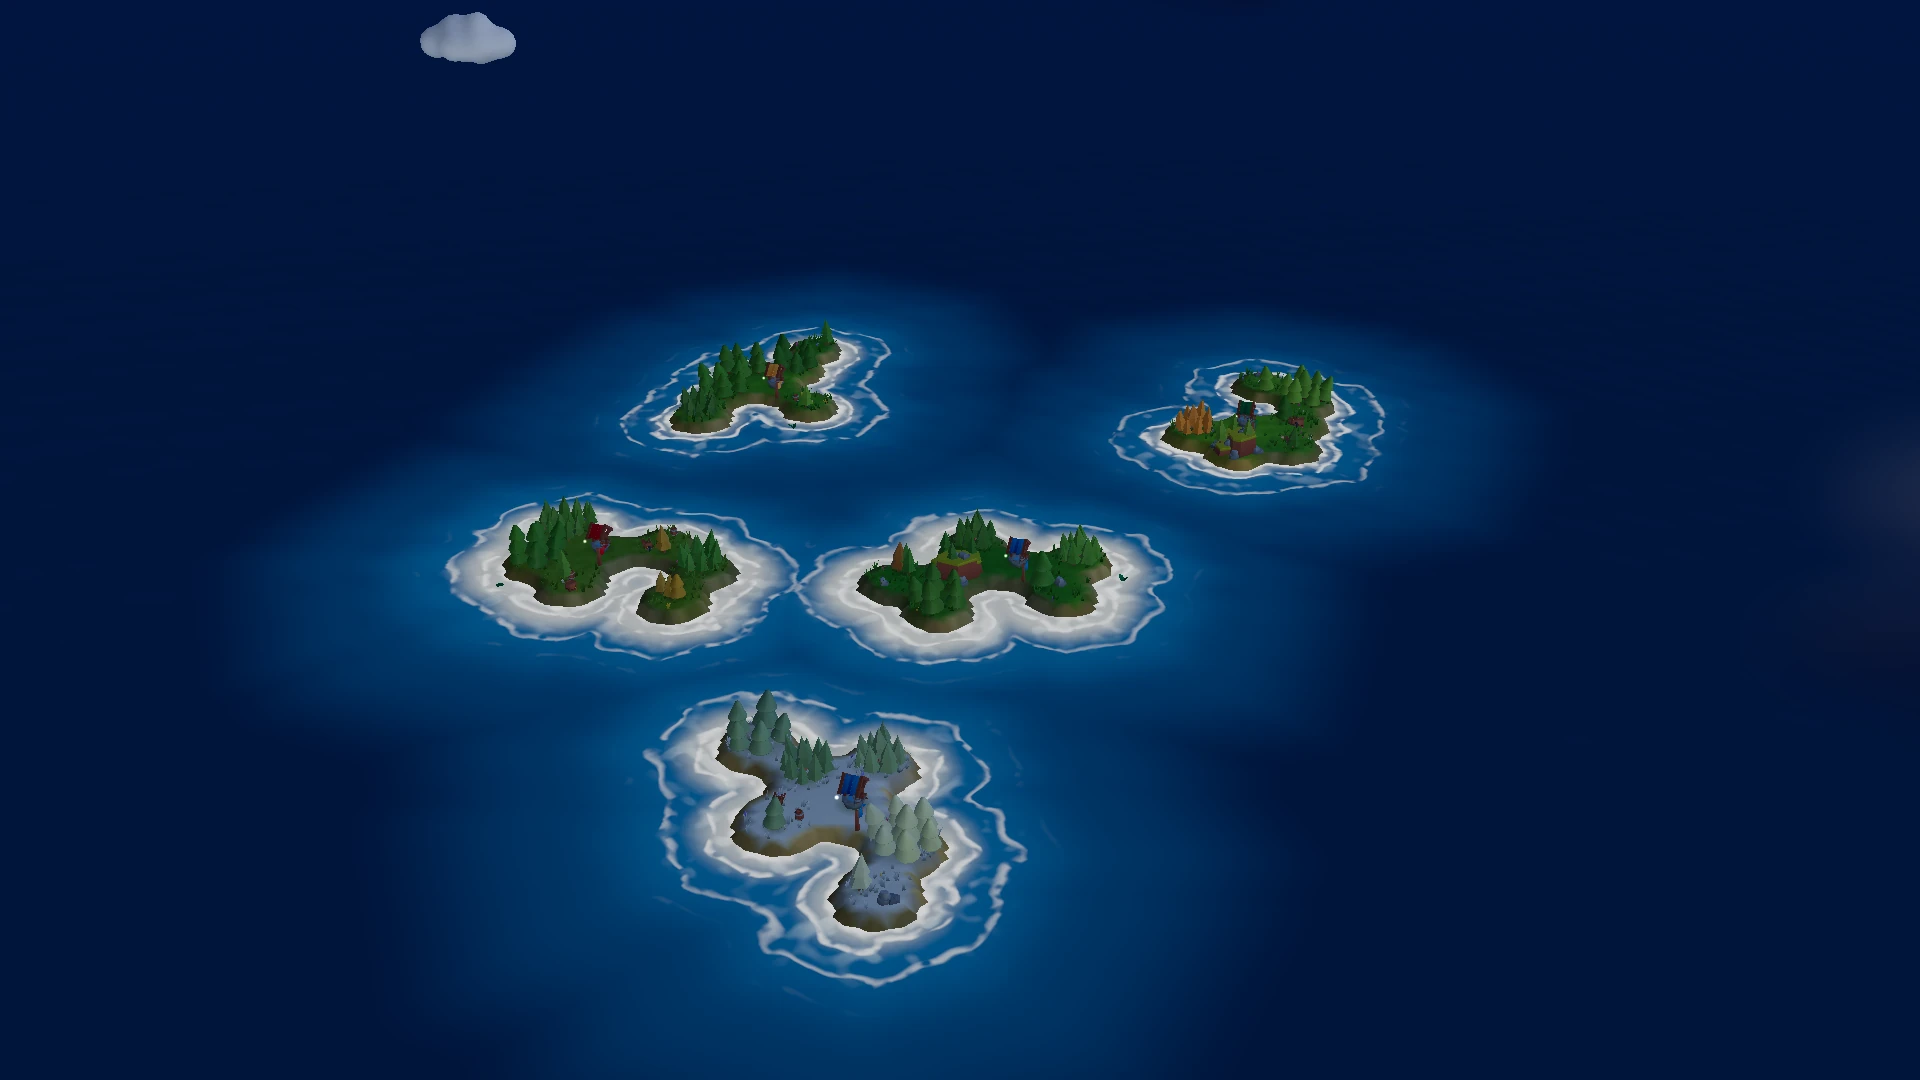
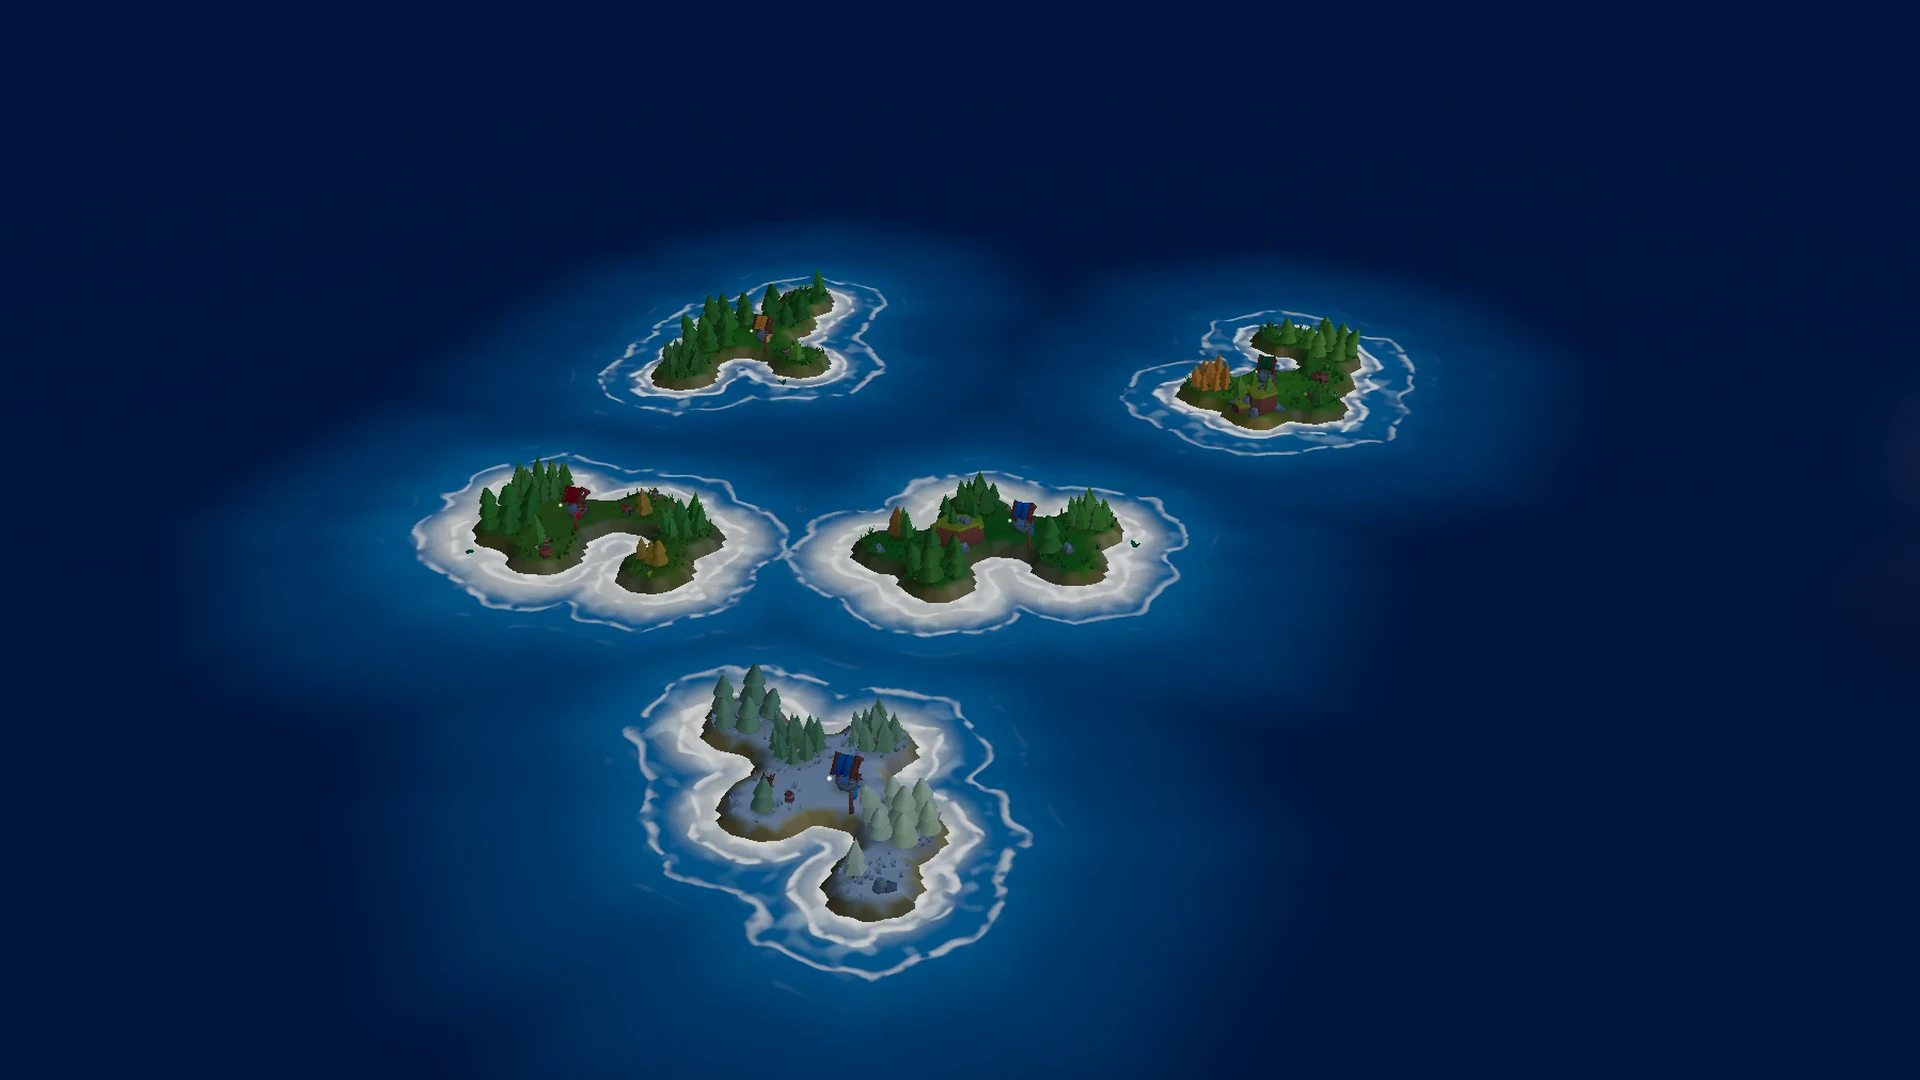
Harbour: a wood accent seen on the panels too, and a wallpaper without a cloud in its corner
Screenshots of Harbour in the real app found two things here.

The wood accent read 3.16:1 on the page but 2.92:1 on the panels and menus,
where a switch that is on and a slider's thumb are drawn; the app now holds
an accent to 3:1 on both (its theme-format.ts, branch fix/theme-polish).
Brand goes from oklch(0.52 0.075 45) to oklch(0.53 0.075 45): 3.30:1 on bg,
3.05:1 on bg2. The main button's words, the theme's fg, stay above 4.5:1 on
it (4.55:1, was 4.75:1; fg/bg2 is 13.9:1, so 3:1 on bg2 leaves at most
4.63:1), white 5.42:1. It stays apart from warn's amber by eye and under
deuteranopia and protanopia (31 apart, as before 32).

The wallpaper had a grey cloud in its top-left corner (rows 8 to 63), which
the app showed between the Layers panel and the toolbar. The still is now
that render cropped below it and scaled back to 1920 x 1080 (7% larger),
78 KB; ASSETS.md says how, and to look at the corners next time.

tests/harbour-theme.test.ts also asks for brand at 3:1 on bg2 and for fg on
brand at 4.5:1 (the main button's words); the old wood fails the first (and
the app's reader refuses it: "accent.brand on bg2 is 2.92:1"), a wood at
L 0.545 fails the second (4.29:1).

Claude-Session: https://claude.ai/code/session_01BLfTFn7RkTLtbpWjFPCzxo

Changed region(s): [[0.125, 0.2139, 0.8125, 0.9167], [0.2188, 0.0, 0.2812, 0.0611]]

diff --git a/tests/harbour-theme.test.ts b/tests/harbour-theme.test.ts
@@ -83,7 +83,7 @@ describe("Harbour", () => {
     }
   });
 
-  test("its wood accent reads apart from warn, by eye and under deuteranopia and protanopia, and reads as words on bg and bg2; its brand takes white words", () => {
+  test("its wood accent reads apart from warn, by eye and under deuteranopia and protanopia, and reads as words on bg and bg2; its brand is a mark on bg and bg2 and takes the theme's words and white ones", () => {
     const { brand, accent, working } = theme.accent as Record<string, string>;
     for (const c of [brand, accent]) {
       const near = Math.min(deltaE(rgbOf(c), rgbOf(P.warn)), ...(["deuteranopia", "protanopia"] as const).map((k) => deltaE(simulate(rgbOf(c), k), simulate(rgbOf(P.warn), k))));
@@ -94,7 +94,12 @@ describe("Harbour", () => {
     }
     expect(ratio(accent, P.bg)).toBeGreaterThanOrEqual(4.5);
     expect(ratio(accent, P.bg2)).toBeGreaterThanOrEqual(4.5);
+    // A switch that is on, a slider's thumb and the selected tile's handle: on the page and on the
+    // panels and menus, as the app checks (theme-format.ts ACCENT_SURFACES).
     expect(ratio(brand, P.bg)).toBeGreaterThanOrEqual(3);
+    expect(ratio(brand, P.bg2)).toBeGreaterThanOrEqual(3);
+    // The main button's words are the theme's fg (the app takes fg or bg, whichever reads better).
+    expect(ratio(P.fg, brand)).toBeGreaterThanOrEqual(4.5);
     expect(ratio(WHITE, brand)).toBeGreaterThanOrEqual(4.5);
     // A working agent is not the brand: a pale sea colour, a mark on the panels.
     expect(ratio(working, P.bg2)).toBeGreaterThanOrEqual(3);

diff --git a/packages/archipelago/themes/harbour/ASSETS.md b/packages/archipelago/themes/harbour/ASSETS.md
@@ -7,7 +7,7 @@ that lets it be shipped, changed and passed on.
 | File | What | Where it comes from | Licence |
 |---|---|---|---|
 | `fonts/nunito-latin.woff2` | Nunito, the interface font: one variable file, weights 400 to 800, the Latin subset (Basic Latin, Latin-1, the common punctuation and symbols), 39 KB | Nunito, Copyright 2014 The Nunito Project Authors: https://github.com/googlefonts/nunito; this file is the Latin subset Google Fonts serves for `Nunito:wght@400..800` (https://fonts.gstatic.com/s/nunito/v32/XRXV3I6Li01BKofINeaB.woff2), unchanged | SIL Open Font License 1.1, in full in `fonts/OFL.txt` |
-| `wallpaper.webp` | The islands by night, 1920 × 1080, 77 KB | Rendered from Archipelago's own view (`views/archipelago/dist`) in headless Chromium: five islands, no agents, the night sky, camera at distance 60, yaw 0.75, pitch 0.5. Its models and skies are the CC0 packs listed in `views/archipelago/ASSETS.md` | CC0 1.0, as the packs it is drawn from; the render is ours, given under the same terms |
+| `wallpaper.webp` | The islands by night, 1920 × 1080, 78 KB | Rendered from Archipelago's own view (`views/archipelago/dist`) in headless Chromium: five islands, no agents, the night sky, camera at distance 60, yaw 0.75, pitch 0.5; then cropped to leave out a cloud the render left in its top-left corner, where the app showed it between the Layers panel and the toolbar. Its models and skies are the CC0 packs listed in `views/archipelago/ASSETS.md` | CC0 1.0, as the packs it is drawn from; the render is ours, given under the same terms |
 | `sounds/done.ogg` | A ship's bell struck twice, 2.6 s | Synthesised by `../../scripts/make-harbour-sounds.mjs` | Ours, CC0 1.0 |
 | `sounds/needs.ogg` | Two gull-like calls, each rising, the second higher, 1.0 s | Synthesised by `../../scripts/make-harbour-sounds.mjs` | Ours, CC0 1.0 |
 | `sounds/error.ogg` | A low harbour horn, two pipes a fifth apart, 1.8 s | Synthesised by `../../scripts/make-harbour-sounds.mjs` | Ours, CC0 1.0 |
@@ -35,3 +35,10 @@ how: the app's `serveViewFile`, the SDK's fake host), send it a structure of a f
 agents with `settings: { sky: "night", motion: "less" }` and a saved camera, screenshot it at
 1920 × 1080 and encode it with `ffmpeg -i still.png -c:v libwebp -quality 90 -compression_level 6
 wallpaper.webp`.
+
+Look at its corners before you commit it. The app draws the Layers panel, the toolbar and the canvas
+controls over them, so a cloud or a light there reads as a smudge between them. The first render had
+a cloud in the top-left corner (rows 8 to 63). The committed still is that render cropped below it and
+scaled back to 1920 × 1080, 7% larger:
+`ffmpeg -i wallpaper.webp -vf "crop=1799:1012:60:68,scale=1920:1080:flags=lanczos" -c:v libwebp
+-quality 90 -compression_level 6 cropped.webp`.

diff --git a/packages/archipelago/README.md b/packages/archipelago/README.md
@@ -41,7 +41,7 @@ with the Harbour widget, the dock of agents calling you; the theme is the look, 
 | Part | What it is |
 | --- | --- |
 | Colours | Dark: panels of night sea, words in sea-foam white (15:1 on the ground), and one warm colour, the amber of "needs you", kept for what waits on you alone. |
-| Accent | Wood: a brown well below the amber in lightness, so the two stay apart, also to colour-blind eyes. It is never a status. |
+| Accent | Wood: a brown well below the amber in lightness, so the two stay apart, also to colour-blind eyes, and at 3:1 on the ground and on the panels, so a switch or a slider in it is seen. It is never a status. |
 | Terminal | The same sea, with every ANSI colour but black reading at 4.5:1 on it; its yellow is a pale sand, not the amber. |
 | Font | Nunito, rounded, for the interface (OFL 1.1); the terminal keeps your monospace font. |
 | Wallpaper | The islands by night, rendered from this view, dimmed to 80%. |
